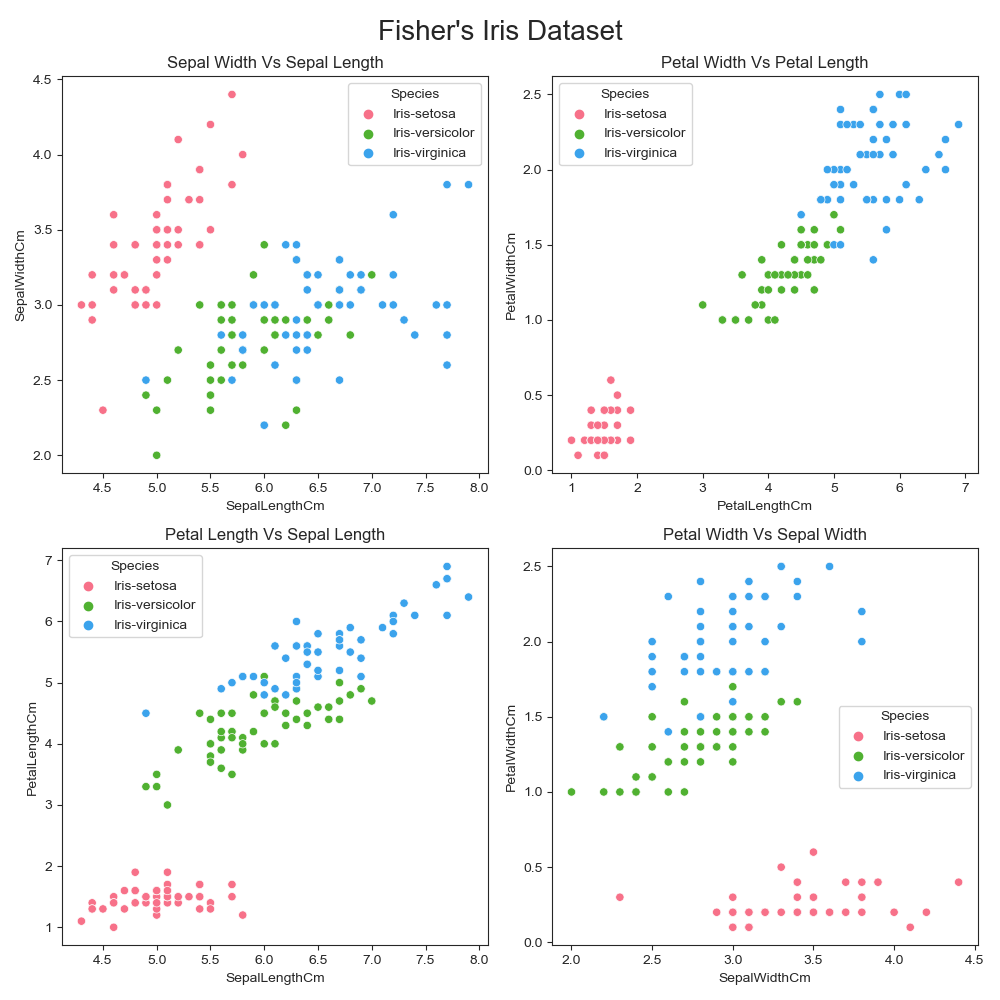
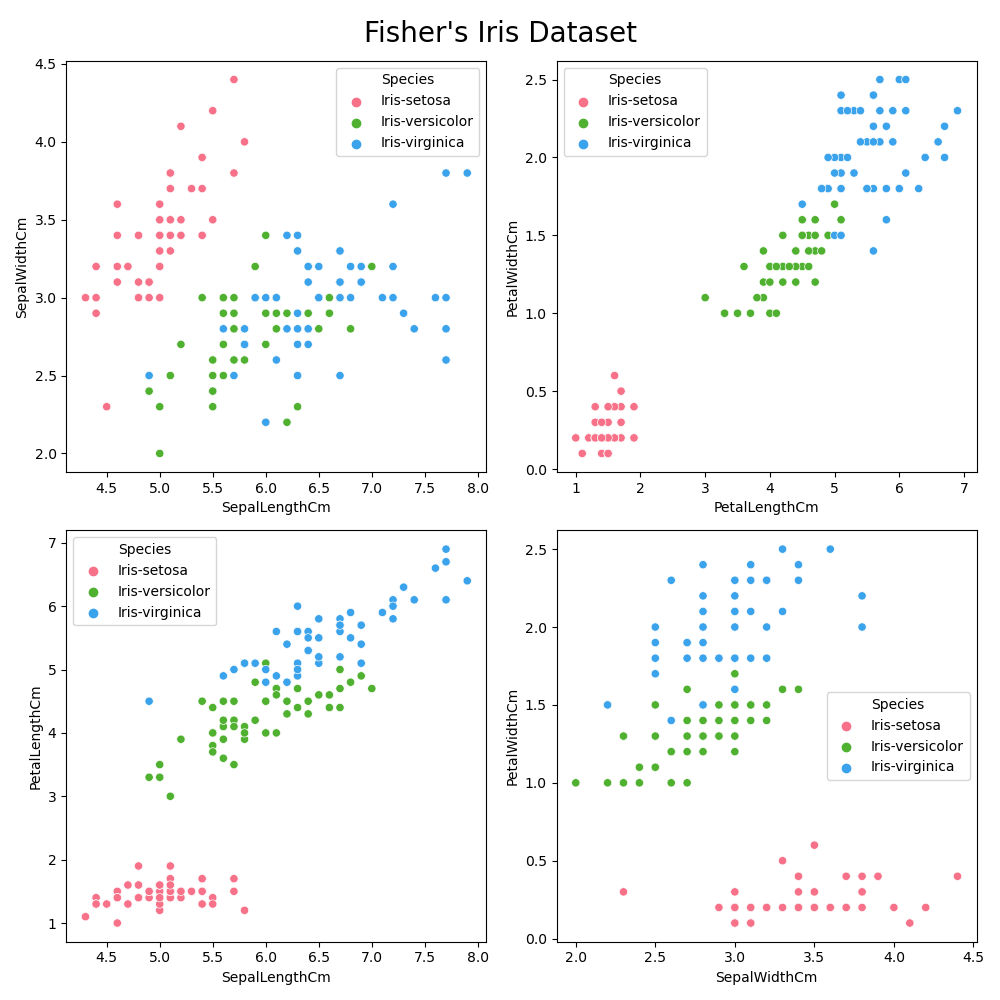
Graphs

diff --git a/Analysis.py b/Analysis.py
@@ -6,7 +6,7 @@
 
 # Provide a summary of each variable in a single txt file
 # Save a historgram of each variable in a PNG file
-# Sets outputs of a scatterplit of each pair of variables
+# Sets outputs of a scatterplot of each pair of variables
 
 
 import numpy as np                               # Import Modules  - NumPy
@@ -37,6 +37,28 @@ with open("analysisOutout.txt", "wt") as f:                                     
 # 
 
 
+
+
+
+
+
+
+
+
+# Scatterplots
+plt.figure(figsize=(10,10))
+plt.subplot(2,2,1)
+scatterplot = sns.scatterplot(x = "SepalLengthCm", y = "SepalWidthCm", data = df, hue="Species", legend=True, palette=("husl")) 
+plt.subplot(2,2,2)
+scatterplot = sns.scatterplot(x = "PetalLengthCm", y = "PetalWidthCm", data = df, hue="Species", legend=True, palette=("husl")) 
+plt.subplot(2,2,3)
+scatterplot = sns.scatterplot(x = "SepalLengthCm", y = "PetalLengthCm", data = df, hue="Species", legend=True, palette=("husl")) 
+plt.subplot(2,2,4)
+scatterplot = sns.scatterplot(x = "SepalWidthCm", y = "PetalWidthCm", data = df, hue="Species", legend=True, palette=("husl"))
+plt.suptitle("Fisher's Iris Dataset", size=20)
+plt.tight_layout()
+#plt.show()
+plt.savefig("Scatterplots.png") 
 
 
 

diff --git a/exampleGraphs.py b/exampleGraphs.py
@@ -45,27 +45,6 @@ plt.tight_layout()
 plt.savefig("Voilinplots.png")  
 
 
-
-# Scatterplots
-plt.figure(figsize=(10,10))
-plt.subplot(2,2,1)
-plt.title("Sepal Width Vs Sepal Length")
-scatterplot = sns.scatterplot(x = "SepalLengthCm", y = "SepalWidthCm", data = df, hue="Species", legend=True, palette=("husl")) 
-plt.subplot(2,2,2)
-plt.title("Petal Width Vs Petal Length")
-scatterplot = sns.scatterplot(x = "PetalLengthCm", y = "PetalWidthCm", data = df, hue="Species", legend=True, palette=("husl")) 
-plt.subplot(2,2,3)
-plt.title("Petal Length Vs Sepal Length")
-scatterplot = sns.scatterplot(x = "SepalLengthCm", y = "PetalLengthCm", data = df, hue="Species", legend=True, palette=("husl")) 
-plt.subplot(2,2,4)
-plt.title("Petal Width Vs Sepal Width")
-scatterplot = sns.scatterplot(x = "SepalWidthCm", y = "PetalWidthCm", data = df, hue="Species", legend=True, palette=("husl"))
-plt.suptitle("Fisher's Iris Dataset", size=20)
-plt.tight_layout()
-#plt.show()
-plt.savefig("Scatterplots.png")  
-
-
 # Joint Plot
 jointplot = sns.jointplot(x='SepalWidthCm', y='SepalLengthCm', data=df, height=4, palette=("husl"))
 #plt.show()
